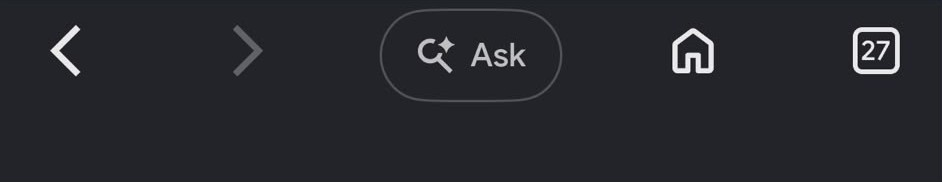
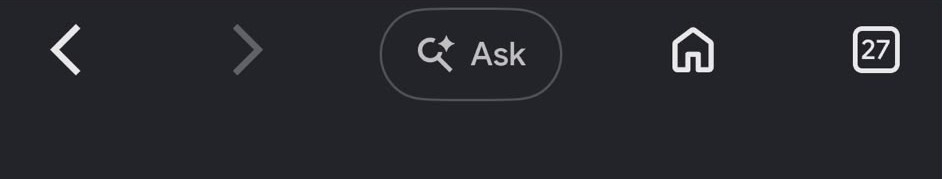
aa

diff --git a/css/select.css b/css/select.css
@@ -12,17 +12,17 @@ body {
     display: flex;
     justify-content: center;
     align-items: center;
-    height: 100vh;
 }
 
 /* Container Card */
 .container {
     background: white;
     color: #0b3d0b;
-    padding: 2rem;
+    padding: 1rem;
+    margin: 1rem;
     border-radius: 12px;
-    width: 70%;
-    height: 60%;
+    width: 80%;
+    height: auto;
     text-align: center;
     box-shadow: 0 8px 20px rgba(0,0,0,0.3);
 }
@@ -34,14 +34,13 @@ h2 {
 
 label {
     font-weight: 500;
-    font-size: 1.7rem;
+    font-size: 1rem;
     display: block;
-    margin: 0.8rem 0 1.8rem;
-}
+    margin-bottom: 0.5rem;}
 
 select {
-    width: 100%;
-    padding: 0.6rem;
+    width: 70%;
+    padding: 10px;
     border-radius: 6px;
     border: 2px solid #0b7a2f;
     font-size:1.2rem;
@@ -49,7 +48,6 @@ select {
 }
 
 button {
-    margin-top: 2rem;
     width: 100%;
     padding: 0.8rem;
     border: none;

diff --git a/index.html b/index.html
@@ -20,7 +20,7 @@
         <img src="img/top.jpeg" alt="">
     </div>
 <div class="header">
-<img src="img/Type_Standard_Brand_GO_State_Black_dmvcea.svg" alt="" class="goLogo">
+<img src="img/Type_Standard_Brand_GO_State_Black_dmvcea.svg" alt="" class="goLogo" onclick="window.location.href='/select.html'">
 <div class="headerWraper">
     <h1 class="heading">&#8226; &emsp;&emsp;&emsp;GO TRANSIT&emsp;&emsp;&emsp; &#8226;</h1>
 </div>

diff --git a/service-worker.js b/service-worker.js
@@ -8,7 +8,7 @@ const cacheAssets=[
     "js/app.js",
     "js/stations.js",
     "css/style.css",
-    'css/select.css',
+    "css/select.css",
 
 ];
 self.addEventListener("install", (e) => {
